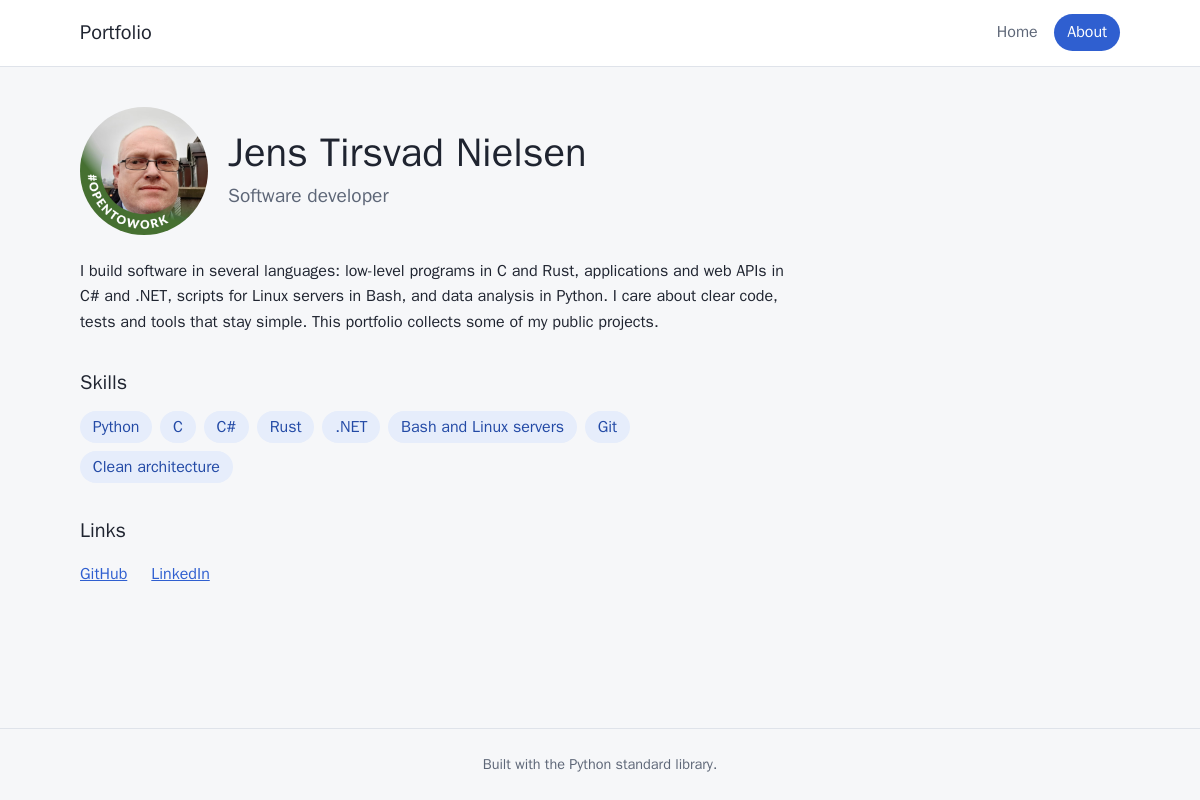
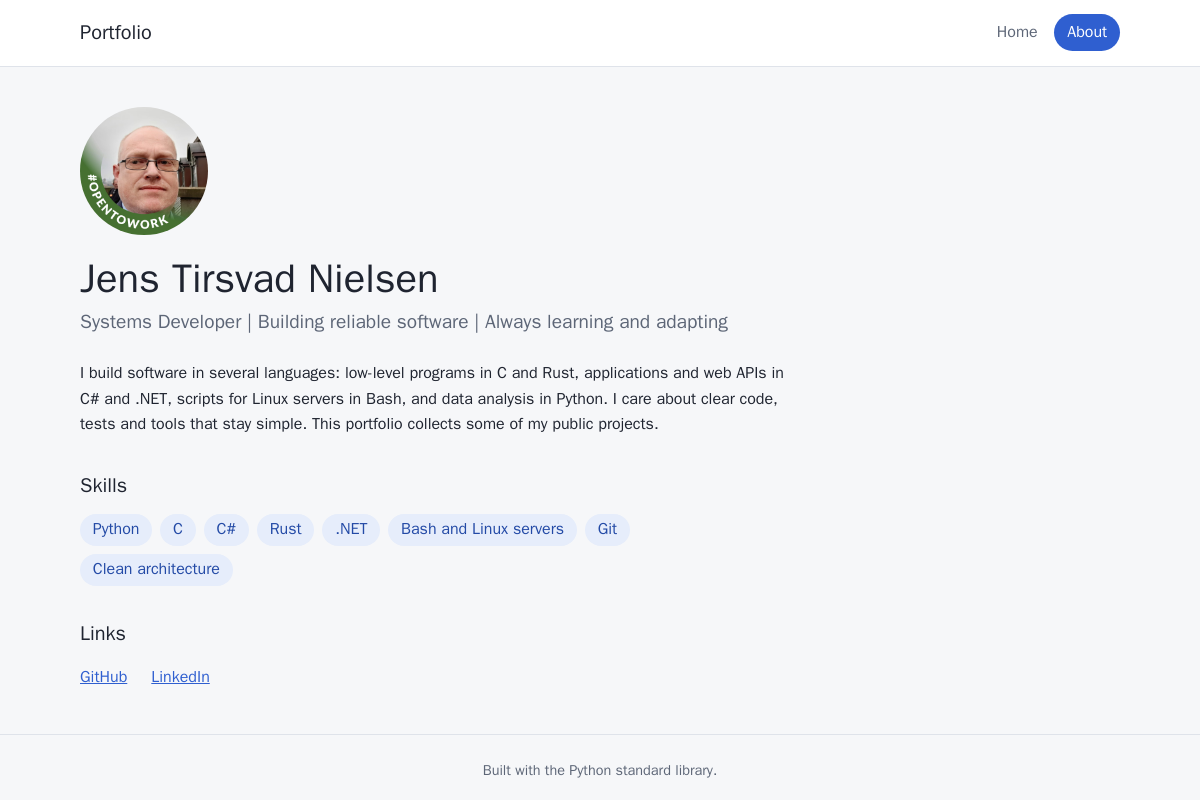
Use the LinkedIn headline on the about page
The headline is "Systems Developer | Building reliable software | Always
learning and adapting", as on the author's LinkedIn profile. One end-to-end test
and two screenshots follow.

Task: MIL-004#8

diff --git a/tests/e2e/test_build_and_serve.py b/tests/e2e/test_build_and_serve.py
@@ -80,7 +80,10 @@ def test_server_serves_the_about_page(running_server: ThreadingHTTPServer) -> No
     status, _, body = fetch(running_server, ABOUT_PAGE_FILE_NAME)
     assert status == 200
     assert "Jens Tirsvad Nielsen" in body
-    assert "Software developer" in body
+    assert (
+        "Systems Developer | Building reliable software | Always learning and adapting"
+        in body
+    )
     assert "https://www.linkedin.com/in/tirsvad74/" in body
 
 
